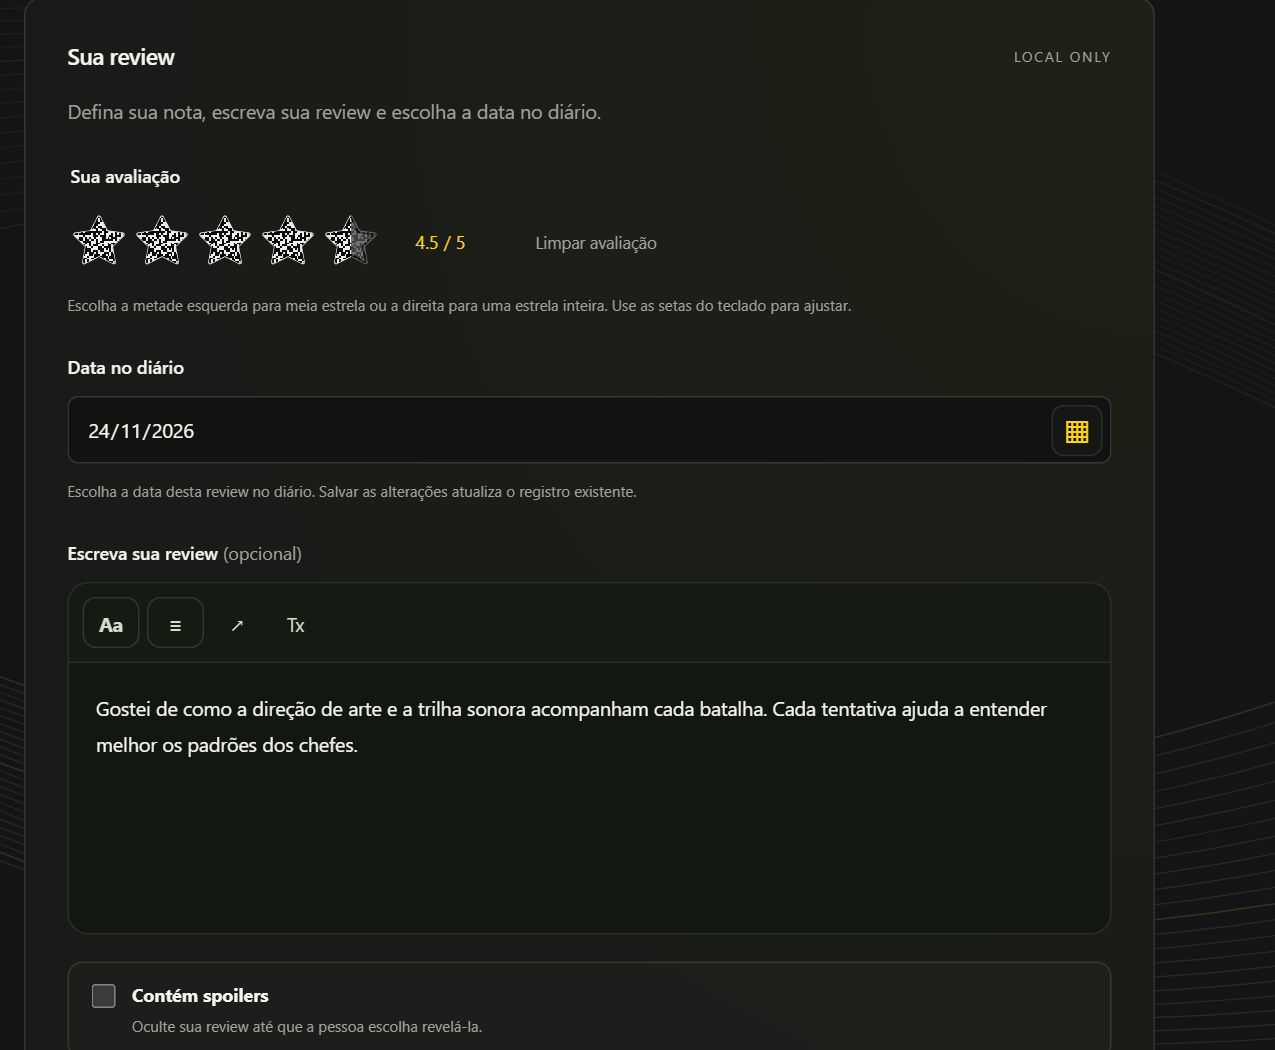
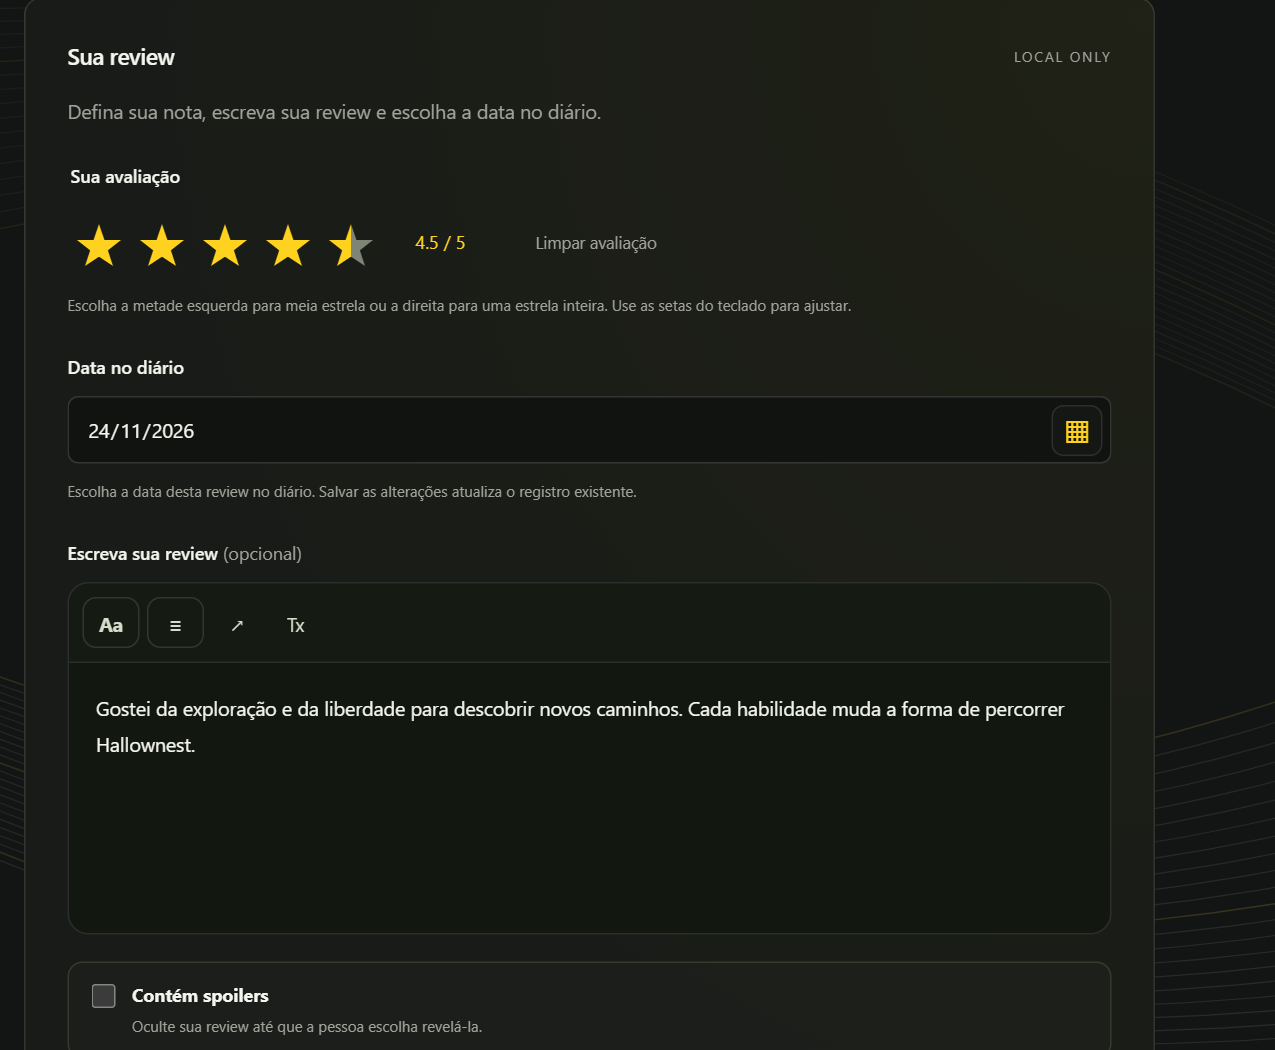
fix(marketing): show standard yellow Hollow Knight ratings in review card

Changed region(s): [[0.0612, 0.6705, 0.8259, 0.7314], [0.0612, 0.2133, 0.3059, 0.2743]]

diff --git a/divulgacao/apresentação/editaveis/feed-04-reviews.html b/divulgacao/apresentação/editaveis/feed-04-reviews.html
@@ -1,1 +1,1 @@
-<!doctype html><html lang="pt-BR"><head><meta charset="utf-8"><meta name="viewport" content="width=device-width,initial-scale=1"><title>BackLog · Instagram</title><link rel="stylesheet" href="design.css"></head><body><main class="slide feed reviews"><div class="background-grid"></div><div class="orbit orbit-one"></div><div class="orbit orbit-two"></div><div class="content"><header class="masthead"><img src="../assets/backlog-logo.png" alt="BackLog"><span>REVIEWS / DIÁRIO</span></header><div class="title-block"><div class="kicker">03 / SUA OPINIÃO</div><h1>Cada jogo merece<br>uma <em>review sua.</em></h1><p class="lead">Notas em meias estrelas, texto, data no diário e aviso de spoiler para quem ainda vai jogar.</p></div><figure class="browser review-screen"><div class="browser-top"><div><i></i><i></i><i></i></div><span>EDITOR / REVIEW E AVALIAÇÃO</span><svg viewBox="0 0 24 24" fill="none" stroke="currentColor" stroke-width="1.5" stroke-linecap="round" stroke-linejoin="round" aria-hidden="true"><path d="M5 19 19 5M5 5h14v14"/></svg></div><img class="screen" src="../assets/review-demo.png" alt="Tela do BackLog: EDITOR / REVIEW E AVALIAÇÃO"></figure><div class="feature-row"><span><svg viewBox="0 0 24 24" fill="none" stroke="currentColor" stroke-width="1.5" stroke-linecap="round" stroke-linejoin="round" aria-hidden="true"><path d="m12 2 3 6 7 1-5 5 1 7-6-3-6 3 1-7-5-5 7-1Z"/></svg> De 0,5 a 5 estrelas</span><span><svg viewBox="0 0 24 24" fill="none" stroke="currentColor" stroke-width="1.5" stroke-linecap="round" stroke-linejoin="round" aria-hidden="true"><path d="m4 12 5 5L20 6"/></svg> Spoilers protegidos</span></div><p class="demo-note">Tela do projeto. A review exibida é um exemplo de uso.</p><footer class="slide-footer"><span>@codergabriel</span><div class="progress"><i class="on"></i><i class="on"></i><i class="on"></i><i class="on"></i><i class=""></i><i class=""></i><i class=""></i><i class=""></i></div><span>04 / 08</span></footer></div></main></body></html>
+<!doctype html><html lang="pt-BR"><head><meta charset="utf-8"><meta name="viewport" content="width=device-width,initial-scale=1"><title>BackLog · Instagram</title><link rel="stylesheet" href="design.css"></head><body><main class="slide feed reviews"><div class="background-grid"></div><div class="orbit orbit-one"></div><div class="orbit orbit-two"></div><div class="content"><header class="masthead"><img src="../assets/backlog-logo.png" alt="BackLog"><span>REVIEWS / DIÁRIO</span></header><div class="title-block"><div class="kicker">03 / SUA OPINIÃO</div><h1>Cada jogo merece<br>uma <em>review sua.</em></h1><p class="lead">Notas em meias estrelas, texto, data no diário e aviso de spoiler para quem ainda vai jogar.</p></div><figure class="browser review-screen"><div class="browser-top"><div><i></i><i></i><i></i></div><span>HOLLOW KNIGHT / REVIEW E AVALIAÇÃO</span><svg viewBox="0 0 24 24" fill="none" stroke="currentColor" stroke-width="1.5" stroke-linecap="round" stroke-linejoin="round" aria-hidden="true"><path d="M5 19 19 5M5 5h14v14"/></svg></div><img class="screen" src="../assets/review-demo.png" alt="Tela do BackLog: HOLLOW KNIGHT / REVIEW E AVALIAÇÃO"></figure><div class="feature-row"><span><svg viewBox="0 0 24 24" fill="none" stroke="currentColor" stroke-width="1.5" stroke-linecap="round" stroke-linejoin="round" aria-hidden="true"><path d="m12 2 3 6 7 1-5 5 1 7-6-3-6 3 1-7-5-5 7-1Z"/></svg> De 0,5 a 5 estrelas</span><span><svg viewBox="0 0 24 24" fill="none" stroke="currentColor" stroke-width="1.5" stroke-linecap="round" stroke-linejoin="round" aria-hidden="true"><path d="m4 12 5 5L20 6"/></svg> Spoilers protegidos</span></div><p class="demo-note">Tela do projeto. A review exibida é um exemplo de uso.</p><footer class="slide-footer"><span>@codergabriel</span><div class="progress"><i class="on"></i><i class="on"></i><i class="on"></i><i class="on"></i><i class=""></i><i class=""></i><i class=""></i><i class=""></i></div><span>04 / 08</span></footer></div></main></body></html>
